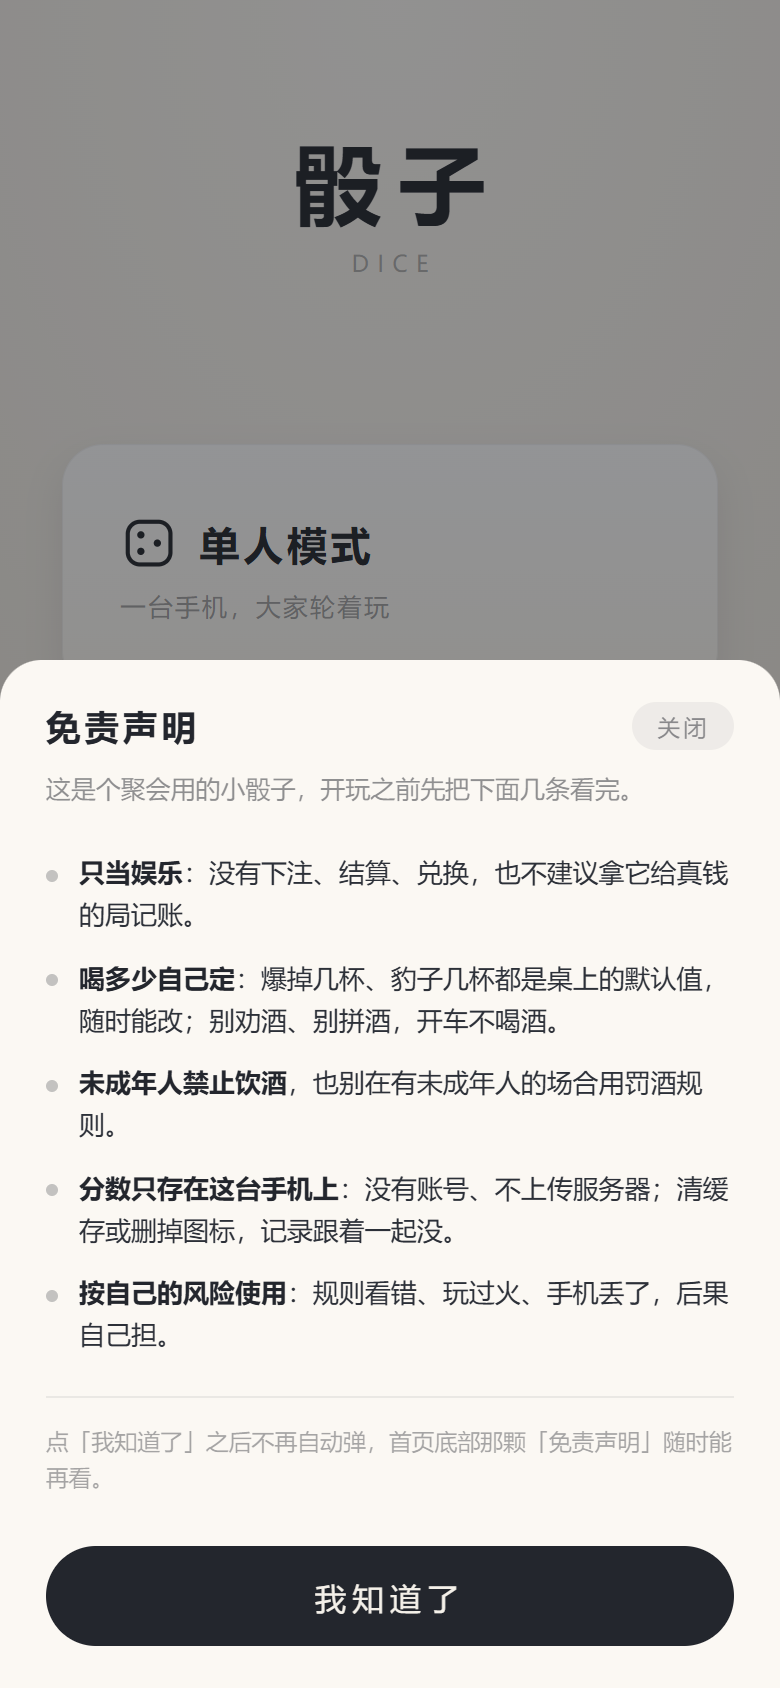
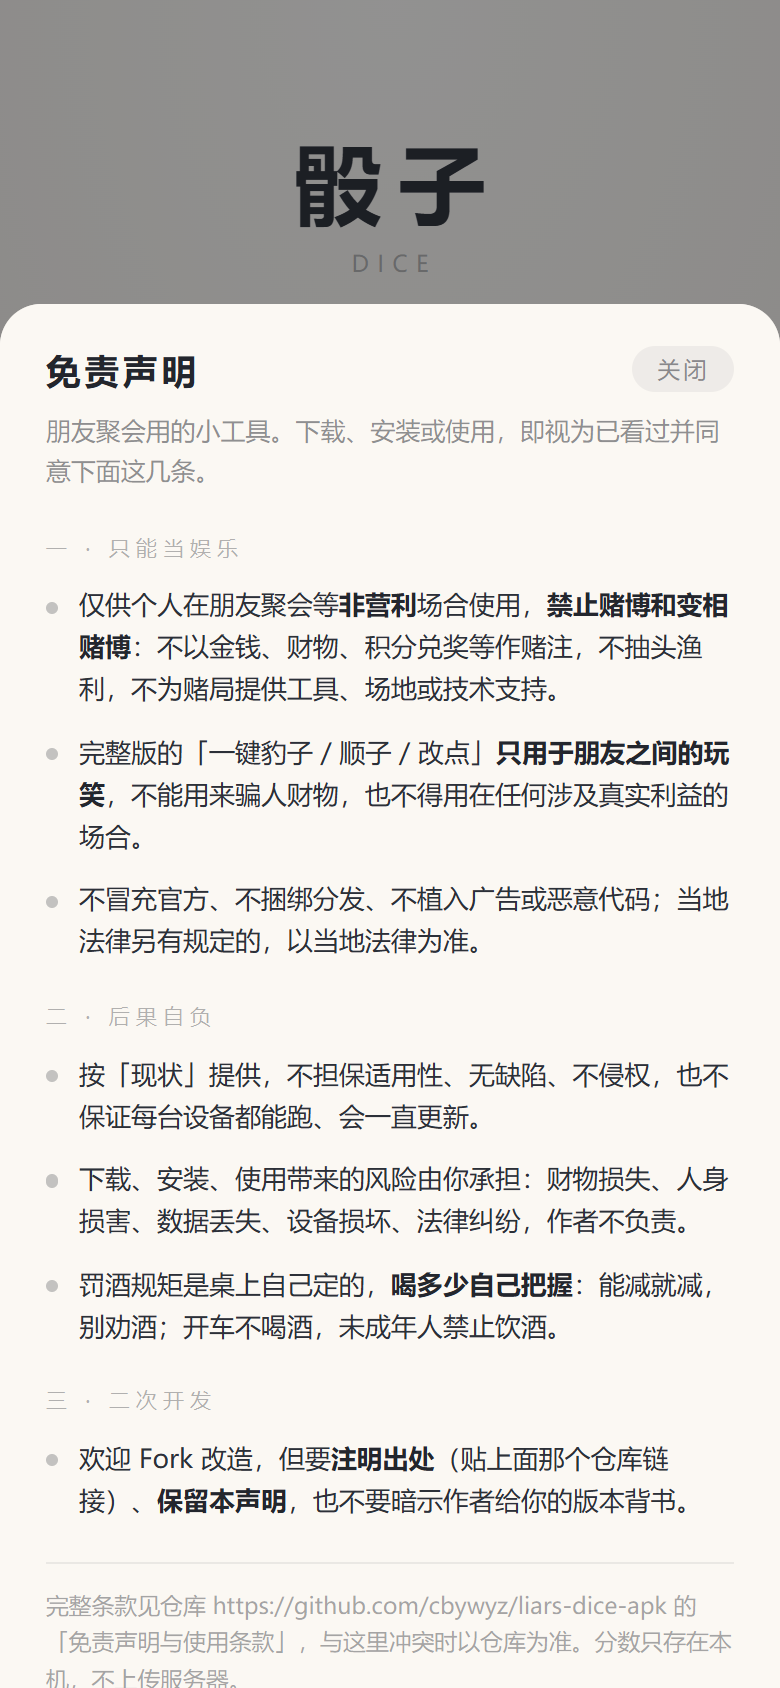
chore: sync

diff --git a/app/src/clean/assets/www/app.js b/app/src/clean/assets/www/app.js
@@ -1088,8 +1088,10 @@
 /* ================= 免责声明 =================
 
    第一次打开自动弹一次，点过「我知道了」就不再弹，之后从首页底部那颗「免责声明」看。
-   首屏就压一层弹层确实有点烦，但这几条（不涉赌、喝酒自愿、未成年人、数据只在本地）
-   真出事时是唯一的说明，宁可开头烦一次。
+
+   内容照仓库 README 的「免责声明与使用条款」压缩成三节（用途 / 后果 / 二次开发），
+   口径一致、说法不另起一套；App 里只留读得完的那部分，完整条款让人去仓库看。
+   喝酒那三条（适量、别劝酒、未成年人禁酒）是玩法自带的，条款里没有，单独补一句。
 
    点空白处关掉不算看过 —— 下次还会弹，直到真的点了「我知道了」。 */
 
@@ -1102,13 +1104,25 @@
   var btn = document.getElementById('termsBtn');
   if (!mask || !body) return;
 
-  var ITEMS = [
-    '<strong>只当娱乐</strong>：没有下注、结算、兑换，也不建议拿它给真钱的局记账。',
-    '<strong>喝多少自己定</strong>：爆掉几杯、豹子几杯都是桌上的默认值，随时能改；' +
-      '别劝酒、别拼酒，开车不喝酒。',
-    '<strong>未成年人禁止饮酒</strong>，也别在有未成年人的场合用罚酒规则。',
-    '<strong>分数只存在这台手机上</strong>：没有账号、不上传服务器；清缓存或删掉图标，记录跟着一起没。',
-    '<strong>按自己的风险使用</strong>：规则看错、玩过火、手机丢了，后果自己担。'
+  var REPO = 'https://github.com/cbywyz/liars-dice-apk';
+
+  var SECTIONS = [
+    ['一 · 只能当娱乐', [
+      '仅供个人在朋友聚会等<strong>非营利</strong>场合使用，<strong>禁止赌博和变相赌博</strong>：' +
+        '不以金钱、财物、积分兑奖等作赌注，不抽头渔利，不为赌局提供工具、场地或技术支持。',
+      '完整版的「一键豹子 / 顺子 / 改点」<strong>只用于朋友之间的玩笑</strong>，不能用来骗人财物，' +
+        '也不得用在任何涉及真实利益的场合。',
+      '不冒充官方、不捆绑分发、不植入广告或恶意代码；当地法律另有规定的，以当地法律为准。'
+    ]],
+    ['二 · 后果自负', [
+      '按「现状」提供，不担保适用性、无缺陷、不侵权，也不保证每台设备都能跑、会一直更新。',
+      '下载、安装、使用带来的风险由你承担：财物损失、人身损害、数据丢失、设备损坏、法律纠纷，作者不负责。',
+      '罚酒规矩是桌上自己定的，<strong>喝多少自己把握</strong>：能减就减，别劝酒；开车不喝酒，未成年人禁止饮酒。'
+    ]],
+    ['三 · 二次开发', [
+      '欢迎 Fork 改造，但要<strong>注明出处</strong>（贴上面那个仓库链接）、<strong>保留本声明</strong>，' +
+        '也不要暗示作者给你的版本背书。'
+    ]]
   ];
 
   function read() {
@@ -1119,14 +1133,18 @@
   }
 
   function build() {
-    var h = '<div class="rule-lead">这是个聚会用的小骰子，开玩之前先把下面几条看完。</div>' +
-      '<div class="rule-sec">';
-    for (var i = 0; i < ITEMS.length; i++) {
-      h += '<div class="rule-li"><em></em><span>' + ITEMS[i] + '</span></div>';
+    var h = '<div class="rule-lead">朋友聚会用的小工具。下载、安装或使用，' +
+      '即视为已看过并同意下面这几条。</div>';
+    for (var s = 0; s < SECTIONS.length; s++) {
+      h += '<div class="rule-sec"><div class="rule-sec-t">' + SECTIONS[s][0] + '</div>';
+      for (var i = 0; i < SECTIONS[s][1].length; i++) {
+        h += '<div class="rule-li"><em></em><span>' + SECTIONS[s][1][i] + '</span></div>';
+      }
+      h += '</div>';
     }
-    h += '</div>' +
-      '<div class="rule-note">点「我知道了」之后不再自动弹，' +
-      '首页底部那颗「免责声明」随时能再看。</div>' +
+    h += '<div class="rule-note">完整条款见仓库 ' + REPO + ' 的「免责声明与使用条款」，' +
+      '与这里冲突时以仓库为准。分数只存在本机，不上传服务器。<br>' +
+      '点「我知道了」之后不再自动弹，首页底部那颗「免责声明」随时能再看。</div>' +
       '<button class="terms-ok" id="termsOk">我知道了</button>';
     body.innerHTML = h;
 

diff --git a/app/src/full/assets/www/app.js b/app/src/full/assets/www/app.js
@@ -1574,8 +1574,10 @@
 /* ================= 免责声明 =================
 
    第一次打开自动弹一次，点过「我知道了」就不再弹，之后从首页底部那颗「免责声明」看。
-   首屏就压一层弹层确实有点烦，但这几条（不涉赌、喝酒自愿、未成年人、数据只在本地）
-   真出事时是唯一的说明，宁可开头烦一次。
+
+   内容照仓库 README 的「免责声明与使用条款」压缩成三节（用途 / 后果 / 二次开发），
+   口径一致、说法不另起一套；App 里只留读得完的那部分，完整条款让人去仓库看。
+   喝酒那三条（适量、别劝酒、未成年人禁酒）是玩法自带的，条款里没有，单独补一句。
 
    点空白处关掉不算看过 —— 下次还会弹，直到真的点了「我知道了」。 */
 
@@ -1588,13 +1590,25 @@
   var btn = document.getElementById('termsBtn');
   if (!mask || !body) return;
 
-  var ITEMS = [
-    '<strong>只当娱乐</strong>：没有下注、结算、兑换，也不建议拿它给真钱的局记账。',
-    '<strong>喝多少自己定</strong>：爆掉几杯、豹子几杯都是桌上的默认值，随时能改；' +
-      '别劝酒、别拼酒，开车不喝酒。',
-    '<strong>未成年人禁止饮酒</strong>，也别在有未成年人的场合用罚酒规则。',
-    '<strong>分数只存在这台手机上</strong>：没有账号、不上传服务器；清缓存或删掉图标，记录跟着一起没。',
-    '<strong>按自己的风险使用</strong>：规则看错、玩过火、手机丢了，后果自己担。'
+  var REPO = 'https://github.com/cbywyz/liars-dice-apk';
+
+  var SECTIONS = [
+    ['一 · 只能当娱乐', [
+      '仅供个人在朋友聚会等<strong>非营利</strong>场合使用，<strong>禁止赌博和变相赌博</strong>：' +
+        '不以金钱、财物、积分兑奖等作赌注，不抽头渔利，不为赌局提供工具、场地或技术支持。',
+      '完整版的「一键豹子 / 顺子 / 改点」<strong>只用于朋友之间的玩笑</strong>，不能用来骗人财物，' +
+        '也不得用在任何涉及真实利益的场合。',
+      '不冒充官方、不捆绑分发、不植入广告或恶意代码；当地法律另有规定的，以当地法律为准。'
+    ]],
+    ['二 · 后果自负', [
+      '按「现状」提供，不担保适用性、无缺陷、不侵权，也不保证每台设备都能跑、会一直更新。',
+      '下载、安装、使用带来的风险由你承担：财物损失、人身损害、数据丢失、设备损坏、法律纠纷，作者不负责。',
+      '罚酒规矩是桌上自己定的，<strong>喝多少自己把握</strong>：能减就减，别劝酒；开车不喝酒，未成年人禁止饮酒。'
+    ]],
+    ['三 · 二次开发', [
+      '欢迎 Fork 改造，但要<strong>注明出处</strong>（贴上面那个仓库链接）、<strong>保留本声明</strong>，' +
+        '也不要暗示作者给你的版本背书。'
+    ]]
   ];
 
   function read() {
@@ -1605,14 +1619,18 @@
   }
 
   function build() {
-    var h = '<div class="rule-lead">这是个聚会用的小骰子，开玩之前先把下面几条看完。</div>' +
-      '<div class="rule-sec">';
-    for (var i = 0; i < ITEMS.length; i++) {
-      h += '<div class="rule-li"><em></em><span>' + ITEMS[i] + '</span></div>';
+    var h = '<div class="rule-lead">朋友聚会用的小工具。下载、安装或使用，' +
+      '即视为已看过并同意下面这几条。</div>';
+    for (var s = 0; s < SECTIONS.length; s++) {
+      h += '<div class="rule-sec"><div class="rule-sec-t">' + SECTIONS[s][0] + '</div>';
+      for (var i = 0; i < SECTIONS[s][1].length; i++) {
+        h += '<div class="rule-li"><em></em><span>' + SECTIONS[s][1][i] + '</span></div>';
+      }
+      h += '</div>';
     }
-    h += '</div>' +
-      '<div class="rule-note">点「我知道了」之后不再自动弹，' +
-      '首页底部那颗「免责声明」随时能再看。</div>' +
+    h += '<div class="rule-note">完整条款见仓库 ' + REPO + ' 的「免责声明与使用条款」，' +
+      '与这里冲突时以仓库为准。分数只存在本机，不上传服务器。<br>' +
+      '点「我知道了」之后不再自动弹，首页底部那颗「免责声明」随时能再看。</div>' +
       '<button class="terms-ok" id="termsOk">我知道了</button>';
     body.innerHTML = h;
 

diff --git a/app/src/clean/assets/www/index.html b/app/src/clean/assets/www/index.html
@@ -77,7 +77,7 @@
     </button>
 
     <div class="home-foot">
-      <span class="home-ver" id="homeVer">v1.10.13 · 仅供朋友聚会娱乐</span>
+      <span class="home-ver" id="homeVer">v1.10.14 · 仅供朋友聚会娱乐</span>
       <button class="home-legal" id="termsBtn">免责声明</button>
     </div>
   </div>
@@ -195,7 +195,7 @@
     <div class="hint" id="hint">点「摇一摇」开始这一局</div>
     <div class="btn-row" id="btnRow"></div>
     <div class="foot">
-      <span>v1.10.13</span>
+      <span>v1.10.14</span>
       <button class="mode-link" id="ruleBtn">玩法说明</button>
     </div>
   </div>

diff --git a/app/src/full/assets/www/index.html b/app/src/full/assets/www/index.html
@@ -77,7 +77,7 @@
     </button>
 
     <div class="home-foot">
-      <span class="home-ver" id="homeVer">v1.10.13 · 仅供朋友聚会娱乐</span>
+      <span class="home-ver" id="homeVer">v1.10.14 · 仅供朋友聚会娱乐</span>
       <button class="home-legal" id="termsBtn">免责声明</button>
     </div>
   </div>
@@ -195,7 +195,7 @@
     <div class="hint" id="hint">点「摇一摇」开始这一局</div>
     <div class="btn-row" id="btnRow"></div>
     <div class="foot">
-      <span>v1.10.13</span>
+      <span>v1.10.14</span>
       <button class="mode-link" id="ruleBtn">玩法说明</button>
     </div>
   </div>

diff --git a/app/src/clean/assets/www/sw.js b/app/src/clean/assets/www/sw.js
@@ -10,7 +10,7 @@
  * 都不一样，旧缓存永远匹配不上。代价是断网时这些带参数的 URL 在缓存里找不到，
  * 所以回退那一步必须 ignoreSearch —— 否则断网会拿到一份 HTML 当 JS 用，整个包挂掉。
  */
-var CACHE = 'liars-dice-clean-v39';
+var CACHE = 'liars-dice-clean-v40';
 var FILES = [
   './',
   './index.html',

diff --git a/app/src/full/assets/www/sw.js b/app/src/full/assets/www/sw.js
@@ -10,7 +10,7 @@
  * 都不一样，旧缓存永远匹配不上。代价是断网时这些带参数的 URL 在缓存里找不到，
  * 所以回退那一步必须 ignoreSearch —— 否则断网会拿到一份 HTML 当 JS 用，整个包挂掉。
  */
-var CACHE = 'liars-dice-v39';
+var CACHE = 'liars-dice-v40';
 var FILES = [
   './',
   './index.html',
